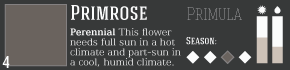
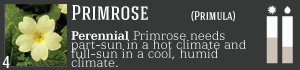
update1235

diff --git a/www/kits.html b/www/kits.html
@@ -51,55 +51,55 @@
     <h2>Temperate</h2>
     <a href="http://skyeadams.com/ecogardens/www/index.html"><img src="image/item-primrose.png" /></a>
     <a href="http://skyeadams.com/ecogardens/www/index.html"><img src="image/item-salvia.png" /></a>
-    <a href="http://skyeadams.com/ecogardens/www/index.html"><img src="image/item-salvia.png" /></a>
-    <a href="http://skyeadams.com/ecogardens/www/index.html"><img src="image/item-salvia.png" /></a>
-    <a href="http://skyeadams.com/ecogardens/www/index.html"><img src="image/item-salvia.png" /></a>
-    <a href="http://skyeadams.com/ecogardens/www/index.html"><img src="image/item-salvia.png" /></a>
+    <a href="http://skyeadams.com/ecogardens/www/index.html"><img src="image/item-coneflower.png" /></a>
+    <a href="http://skyeadams.com/ecogardens/www/index.html"><img src="image/item-daylily.png" /></a>
+    <a href="http://skyeadams.com/ecogardens/www/index.html"><img src="image/item-marigold.png" /></a>
+    <a href="http://skyeadams.com/ecogardens/www/index.html"><img src="image/item-yarrow.png" /></a>
     </div></div>
     <div id="slide2" style='display:none'><div>
     <h2>Mountain</h2>
     <a href="http://skyeadams.com/ecogardens/www/index.html"><img src="image/item-primrose.png" /></a>
     <a href="http://skyeadams.com/ecogardens/www/index.html"><img src="image/item-salvia.png" /></a>
-    <a href="http://skyeadams.com/ecogardens/www/index.html"><img src="image/item-salvia.png" /></a>
-    <a href="http://skyeadams.com/ecogardens/www/index.html"><img src="image/item-salvia.png" /></a>
-    <a href="http://skyeadams.com/ecogardens/www/index.html"><img src="image/item-salvia.png" /></a>
-    <a href="http://skyeadams.com/ecogardens/www/index.html"><img src="image/item-salvia.png" /></a>
+    <a href="http://skyeadams.com/ecogardens/www/index.html"><img src="image/item-coneflower.png" /></a>
+    <a href="http://skyeadams.com/ecogardens/www/index.html"><img src="image/item-daylily.png" /></a>
+    <a href="http://skyeadams.com/ecogardens/www/index.html"><img src="image/item-marigold.png" /></a>
+    <a href="http://skyeadams.com/ecogardens/www/index.html"><img src="image/item-yarrow.png" /></a>
     </div></div>
     <div id="slide3" style='display:none'><div>
     <h2>Sub-Humid</h2>
     <a href="http://skyeadams.com/ecogardens/www/index.html"><img src="image/item-primrose.png" /></a>
     <a href="http://skyeadams.com/ecogardens/www/index.html"><img src="image/item-salvia.png" /></a>
-    <a href="http://skyeadams.com/ecogardens/www/index.html"><img src="image/item-salvia.png" /></a>
-    <a href="http://skyeadams.com/ecogardens/www/index.html"><img src="image/item-salvia.png" /></a>
-    <a href="http://skyeadams.com/ecogardens/www/index.html"><img src="image/item-salvia.png" /></a>
-    <a href="http://skyeadams.com/ecogardens/www/index.html"><img src="image/item-salvia.png" /></a>
+    <a href="http://skyeadams.com/ecogardens/www/index.html"><img src="image/item-coneflower.png" /></a>
+    <a href="http://skyeadams.com/ecogardens/www/index.html"><img src="image/item-daylily.png" /></a>
+    <a href="http://skyeadams.com/ecogardens/www/index.html"><img src="image/item-marigold.png" /></a>
+    <a href="http://skyeadams.com/ecogardens/www/index.html"><img src="image/item-yarrow.png" /></a>
     </div></div>
     <div id="slide4" style='display:none'><div>
     <h2>Coastal</h2>
     <a href="http://skyeadams.com/ecogardens/www/index.html"><img src="image/item-primrose.png" /></a>
     <a href="http://skyeadams.com/ecogardens/www/index.html"><img src="image/item-salvia.png" /></a>
-    <a href="http://skyeadams.com/ecogardens/www/index.html"><img src="image/item-salvia.png" /></a>
-    <a href="http://skyeadams.com/ecogardens/www/index.html"><img src="image/item-salvia.png" /></a>
-    <a href="http://skyeadams.com/ecogardens/www/index.html"><img src="image/item-salvia.png" /></a>
-    <a href="http://skyeadams.com/ecogardens/www/index.html"><img src="image/item-salvia.png" /></a>
+    <a href="http://skyeadams.com/ecogardens/www/index.html"><img src="image/item-coneflower.png" /></a>
+    <a href="http://skyeadams.com/ecogardens/www/index.html"><img src="image/item-daylily.png" /></a>
+    <a href="http://skyeadams.com/ecogardens/www/index.html"><img src="image/item-marigold.png" /></a>
+    <a href="http://skyeadams.com/ecogardens/www/index.html"><img src="image/item-yarrow.png" /></a>
     </div></div>
     <div id="slide5" style='display:none'><div>
     <h2>Tropical</h2>
     <a href="http://skyeadams.com/ecogardens/www/index.html"><img src="image/item-primrose.png" /></a>
     <a href="http://skyeadams.com/ecogardens/www/index.html"><img src="image/item-salvia.png" /></a>
-    <a href="http://skyeadams.com/ecogardens/www/index.html"><img src="image/item-salvia.png" /></a>
-    <a href="http://skyeadams.com/ecogardens/www/index.html"><img src="image/item-salvia.png" /></a>
-    <a href="http://skyeadams.com/ecogardens/www/index.html"><img src="image/item-salvia.png" /></a>
-    <a href="http://skyeadams.com/ecogardens/www/index.html"><img src="image/item-salvia.png" /></a>
+    <a href="http://skyeadams.com/ecogardens/www/index.html"><img src="image/item-fouroclock.png" /></a>
+    <a href="http://skyeadams.com/ecogardens/www/index.html"><img src="image/item-daylily.png" /></a>
+    <a href="http://skyeadams.com/ecogardens/www/index.html"><img src="image/item-marigold.png" /></a>
+    <a href="http://skyeadams.com/ecogardens/www/index.html"><img src="image/item-yarrow.png" /></a>
     </div></div>
     <div id="slide6" style='display:none'><div>
     <h2>Desert</h2>
     <a href="http://skyeadams.com/ecogardens/www/index.html"><img src="image/item-primrose.png" /></a>
     <a href="http://skyeadams.com/ecogardens/www/index.html"><img src="image/item-salvia.png" /></a>
-    <a href="http://skyeadams.com/ecogardens/www/index.html"><img src="image/item-salvia.png" /></a>
-    <a href="http://skyeadams.com/ecogardens/www/index.html"><img src="image/item-salvia.png" /></a>
-    <a href="http://skyeadams.com/ecogardens/www/index.html"><img src="image/item-salvia.png" /></a>
-    <a href="http://skyeadams.com/ecogardens/www/index.html"><img src="image/item-salvia.png" /></a>
+    <a href="http://skyeadams.com/ecogardens/www/index.html"><img src="image/item-coneflower.png" /></a>
+    <a href="http://skyeadams.com/ecogardens/www/index.html"><img src="image/item-daylily.png" /></a>
+    <a href="http://skyeadams.com/ecogardens/www/index.html"><img src="image/item-marigold.png" /></a>
+    <a href="http://skyeadams.com/ecogardens/www/index.html"><img src="image/item-yarrow.png" /></a>
     </div></div>
   </div>
 </div>

diff --git a/www/css/2kits.css b/www/css/2kits.css
@@ -1,4 +1,37 @@
 @media only screen and (max-width: 479px){
+@font-face {
+    font-family: 'hagin_caps_mediumregular';
+    src: url('../fonts/hagin_caps_medium-webfont.eot');
+    src: url('../fonts/hagin_caps_medium-webfont.eot?#iefix') format('embedded-opentype'),
+         url('../fonts/hagin_caps_medium-webfont.woff') format('woff'),
+         url('../fonts/hagin_caps_medium-webfont.ttf') format('truetype'),
+         url('../fonts/hagin_caps_medium-webfont.svg#hagin_caps_mediumregular') format('svg');
+    font-weight: normal;
+    font-style: normal;
+	}
+	
+		
+	@font-face {
+		font-family: 'bodoniflfregular';
+		src: url('../fonts/bodoniflf-roman-webfont.eot');
+		src: url('../fonts/bodoniflf-roman-webfont.eot?#iefix') format('embedded-opentype'),
+			 url('../fonts/bodoniflf-roman-webfont.woff') format('woff'),
+			 url('../fonts/bodoniflf-roman-webfont.ttf') format('truetype'),
+			 url('../fonts/bodoniflf-roman-webfont.svg#bodoniflfregular') format('svg');
+		font-weight: normal;
+		font-style: normal;
+	
+	}
+	
+
+h2{
+	font-family: 'hagin_caps_mediumregular';	
+}
+
+h1{
+	font-family: 'hagin_caps_mediumregular';	
+}
+
 
 body{
 	height: 460px;
@@ -83,6 +116,7 @@ body{
 
 
 .nav{
+	font-family: 'hagin_caps_mediumregular';
 	position: fixed;
 	background-color:#000000;
 	opacity: 0.8;
@@ -127,7 +161,7 @@ body{
 
 .swipe img{
 	height: 53px;
-	width: 220px;
+	width: 300px;
 	margin-top: 5px;
 }
 

diff --git a/www/css/contactstyle.css b/www/css/contactstyle.css
@@ -1,6 +1,34 @@
 @charset "UTF-8";
 /* CSS Document */
 @media only screen and (min-width: 320px) and (max-width: 479px) {
+@font-face {
+    font-family: 'hagin_caps_mediumregular';
+    src: url('../fonts/hagin_caps_medium-webfont.eot');
+    src: url('../fonts/hagin_caps_medium-webfont.eot?#iefix') format('embedded-opentype'),
+         url('../fonts/hagin_caps_medium-webfont.woff') format('woff'),
+         url('../fonts/hagin_caps_medium-webfont.ttf') format('truetype'),
+         url('../fonts/hagin_caps_medium-webfont.svg#hagin_caps_mediumregular') format('svg');
+    font-weight: normal;
+    font-style: normal;
+	}
+	
+		
+	@font-face {
+		font-family: 'bodoniflfregular';
+		src: url('../fonts/bodoniflf-roman-webfont.eot');
+		src: url('../fonts/bodoniflf-roman-webfont.eot?#iefix') format('embedded-opentype'),
+			 url('../fonts/bodoniflf-roman-webfont.woff') format('woff'),
+			 url('../fonts/bodoniflf-roman-webfont.ttf') format('truetype'),
+			 url('../fonts/bodoniflf-roman-webfont.svg#bodoniflfregular') format('svg');
+		font-weight: normal;
+		font-style: normal;
+	
+	}
+
+h2{
+	font-family: 'hagin_caps_mediumregular';
+	}
+
 body {
 	height: 460px;
 	width: 320px;
@@ -65,6 +93,7 @@ body {
 	left: 200px;
 }
 .nav {
+	font-family: 'hagin_caps_mediumregular';
 	position: fixed;
 	background-color:#000000;
 	opacity: 0.8;
